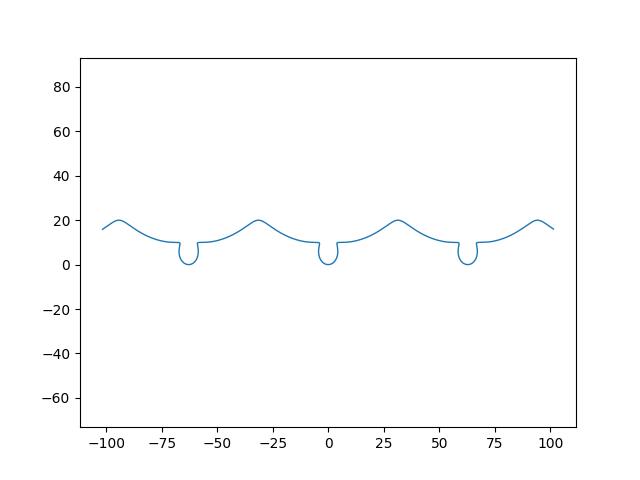
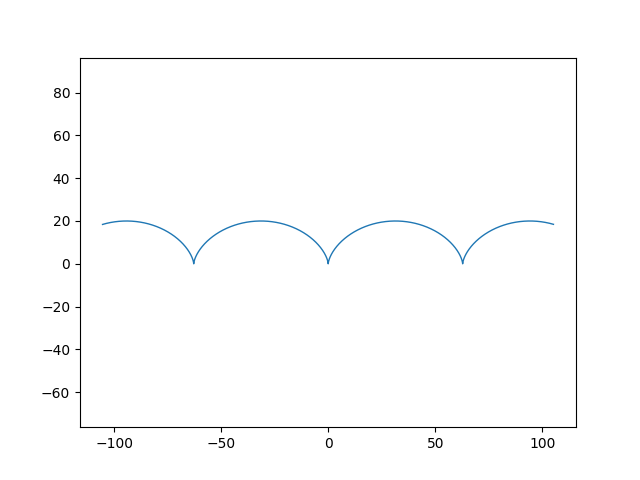
дз

diff --git a/task1.py b/task1.py
@@ -4,8 +4,8 @@ import numpy as np
 def cikl(R=10):
     t = np.arange(-10, 10, 0.01)
 
-    x = R * (t - (np.sin (t)) ** 3)
-    y = R * (1 - (np.cos (t)) ** 3) 
+    x = R * (t - (np.sin (t)) )
+    y = R * (1 - (np.cos (t)) ) 
 
     plt.plot(x, y, ls='-', lw = 1)
     plt.axis('equal')

diff --git a/task2.py b/task2.py
@@ -10,6 +10,7 @@ anim_object, = plt.plot ([], [], '-', lw=2)
 parametr = np.linspace(0, 10, 100)
 ax.set_xlim(-10,10) 
 ax.set_ylim(-10,10)
+plt.axis('equal')
 
 def update (frame):
     t = np.arange(-2*np.pi, 2*np.pi, 0.1)
